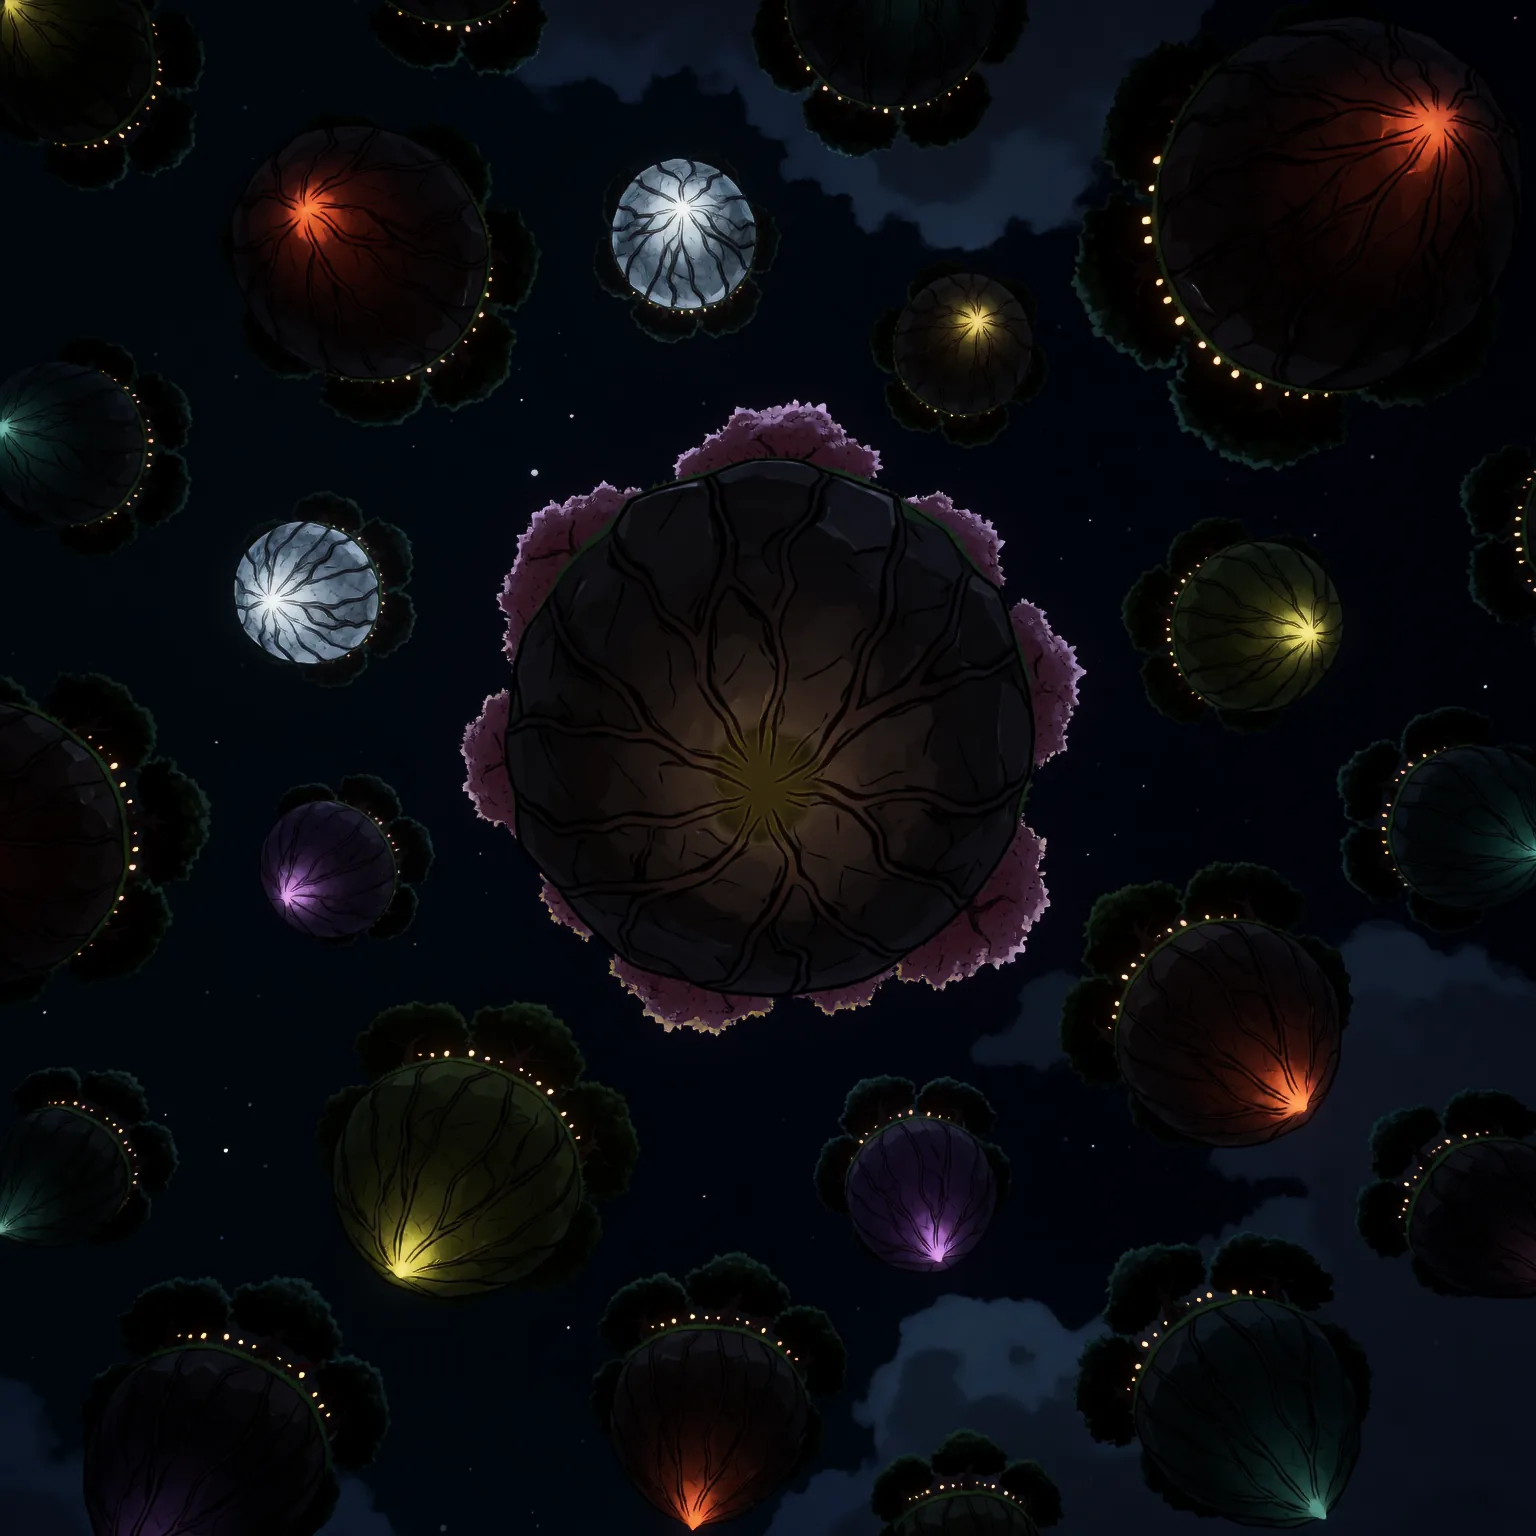
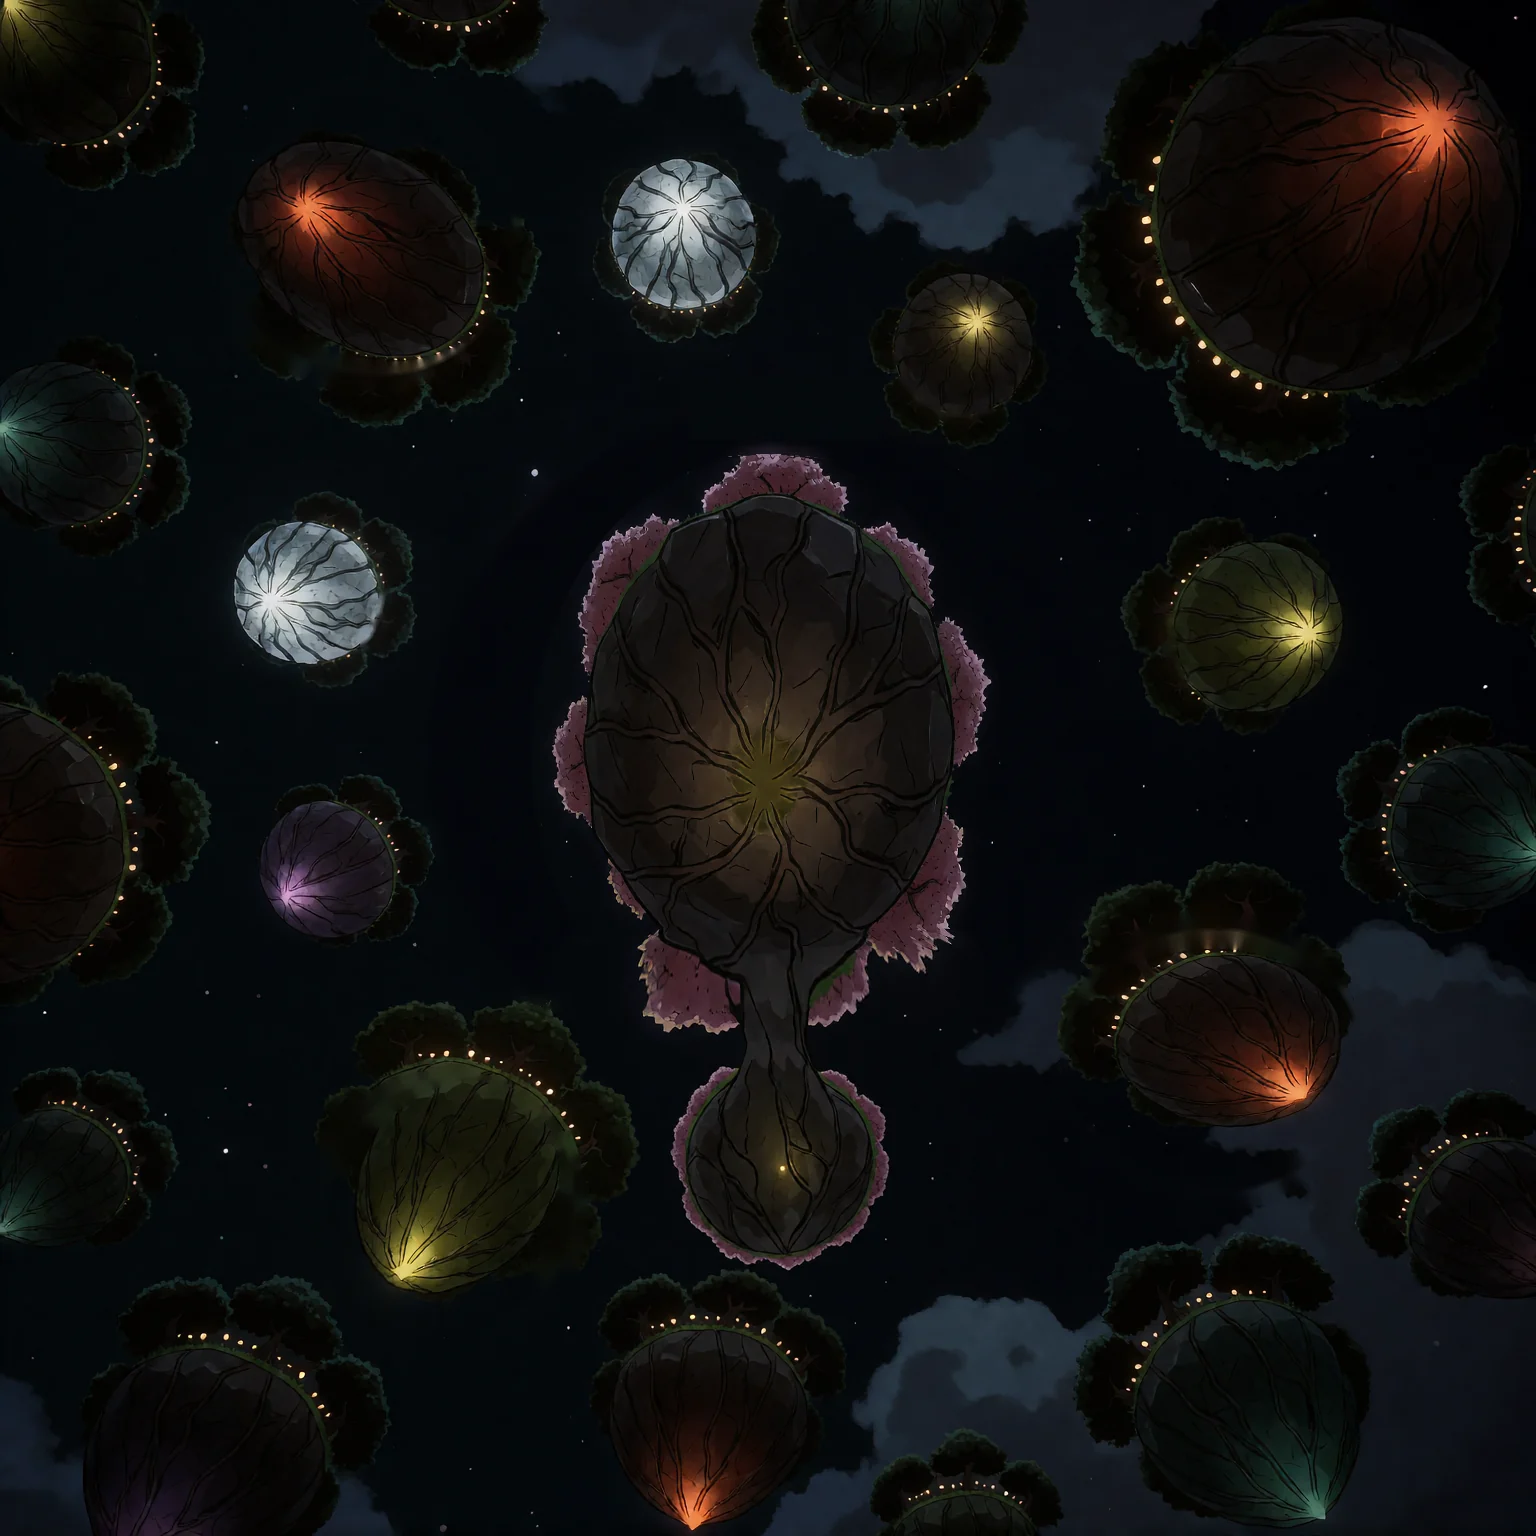
Run 1 ending: the islands from below with home in its new shape, and its glint (Ladi: "Islands from below lgtm")
Claude-Session: https://claude.ai/code/session_01JTmPYBGE5RJi7qTbK5Qior

diff --git a/CREDITS.md b/CREDITS.md
@@ -24,7 +24,7 @@ subscription-only billing so no Spark was spent. Sources are in the project file
 | models/{kes-house,wind-vane,bent-tree,referee-stand}.glb, textures/floor-kite-fell.webp, textures/floor-kite-fell-race.webp | Concepts from z_image_turbo_bf16 (tree and stand edited with krea2_identity_edit_v1_2), then pixal3d_int8_i23d (image to 3D), 2026-11-24, Sogni Unlimited plan, 0 Spark. Levelled, slimmed and paint re-baked by the maps and places thread (project files sogni/lanternfall/production/places/kes-island/props/). | Kite Fell, Kes's island (run 5): her house, the wind vanes, the bent trees, Lumi's referee stand, and the grass |
 | story/eye/*.webp and src/client/eye-rig.ts (the eye in run 1's ending) | The cutscene art thread's eye rig and layers (`production/story/v3/eye/`), approved by Ladi on 2026-11-22; layers converted to WebP |
 | story/*.webp (run 1's ending and run 2's opening pictures) | Drafts from the cast and cutscene art threads (`production/story/slots/` and `production/story/v3/`, 2026-11-23), not yet approved by Ladi; converted to WebP |
-| story/kindling-underside.webp, story/kindling-heart-small.webp, story/kindling-heart-big.webp (run 1's ending: the home island from below in its horseshoe shape, both hearts down to embers, and the two hearts lit as separate layers) | Painted by the cutscene thread on Sogni, 2026-11-24 (`sogni/lanternfall/production/story/v4/`), with krea2_identity_edit_v1_2 on the subscription, 0 Spark, plus its own code, as that thread reports; it says Ladi approved the underside that day and chose two hearts. ❓ That thread has not read the model's licence terms, the same caveat as the run 8 stills. Converted to WebP, same size (1536 square) | Run 1's ending, over the rim and down the underside: the small heart under the Kindling ground lights first, then the big one at the tip. The sky from below and the glint (kindling-hearts, kindling-eye-glint) are still the 2026-11-23 drafts until the new ones are approved |
+| story/kindling-underside.webp, story/kindling-heart-small.webp, story/kindling-heart-big.webp, story/kindling-hearts.webp, story/kindling-eye-glint.webp (run 1's ending: the home island from below in its horseshoe shape, both hearts down to embers; the two hearts lit as separate layers; the sky from below with home in its new shape, approved by Ladi at 11:46 AM, "Islands from below lgtm"; and home's one light among them, the 2026-11-23 glint trimmed tighter) | Painted by the cutscene thread on Sogni, 2026-11-24 (`sogni/lanternfall/production/story/v4/`), with krea2_identity_edit_v1_2 on the subscription, 0 Spark, plus its own code, as that thread reports; it says Ladi approved the underside that day and chose two hearts. ❓ That thread has not read the model's licence terms, the same caveat as the run 8 stills. Converted to WebP, same size (1536 square) | Run 1's ending, over the rim and down the underside: the small heart under the Kindling ground lights first, then the big one at the tip; then the islands from below, home's light as bright as the score |
 | story/walk-kitchen.webp (Rook's kitchen, walk 2) | The cutscene art thread's draft (`production/story/part1/kitchen/kitchen-tappable-walk2-draft-2.png`, 2026-11-23), not yet approved by Ladi; the lantern handle is to be fixed in the final; converted to WebP at 1280 px |
 | faces/lumi-delight-flash.webp | First draft from the cast art thread; Lumi's one open-mouth face in runs 1 and 2 |
 | faces/tilda-{neutral,tired,lost,asking,watching}.webp (Tilda's five faces for run 8) | Cut by the gameplay thread on 2026-11-24 from her approved sheet (the cast thread's approved board, option A), no new render (project files `gameplay/faces/`), 160 px WebP as delivered | Her bark bubbles and talk box in run 8, on Ladi's word ("Tilda needs her face in her bark bubbles"); which face goes with which line is the gameplay thread's mapping (`src/engine/moods.ts`) |
